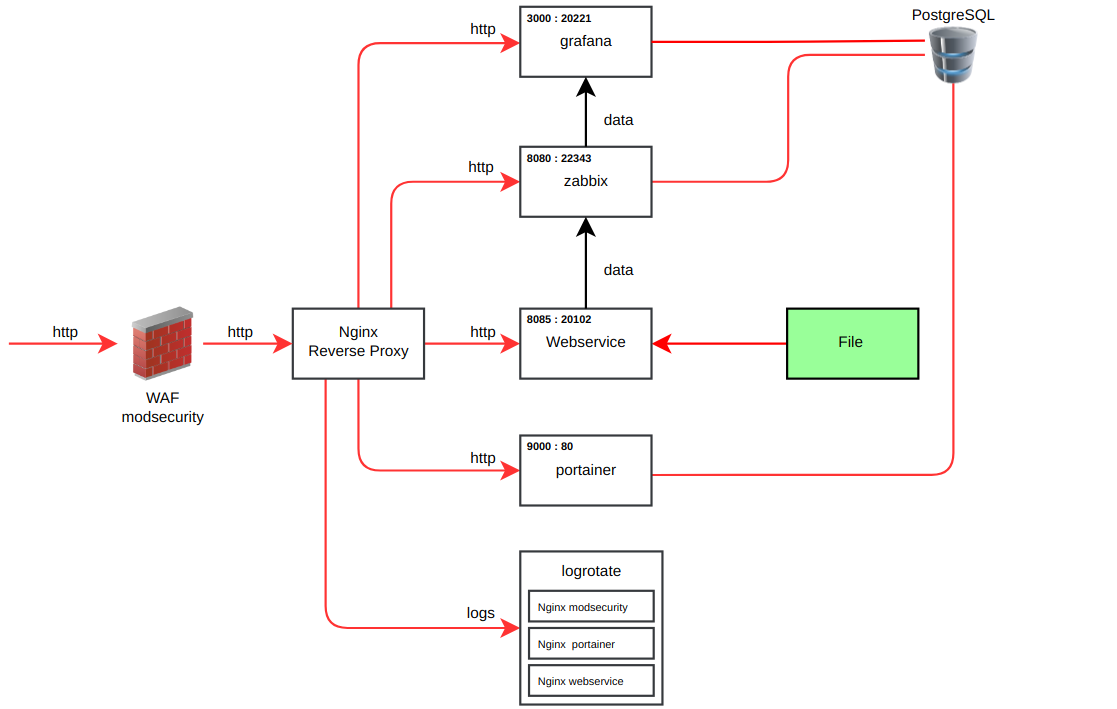
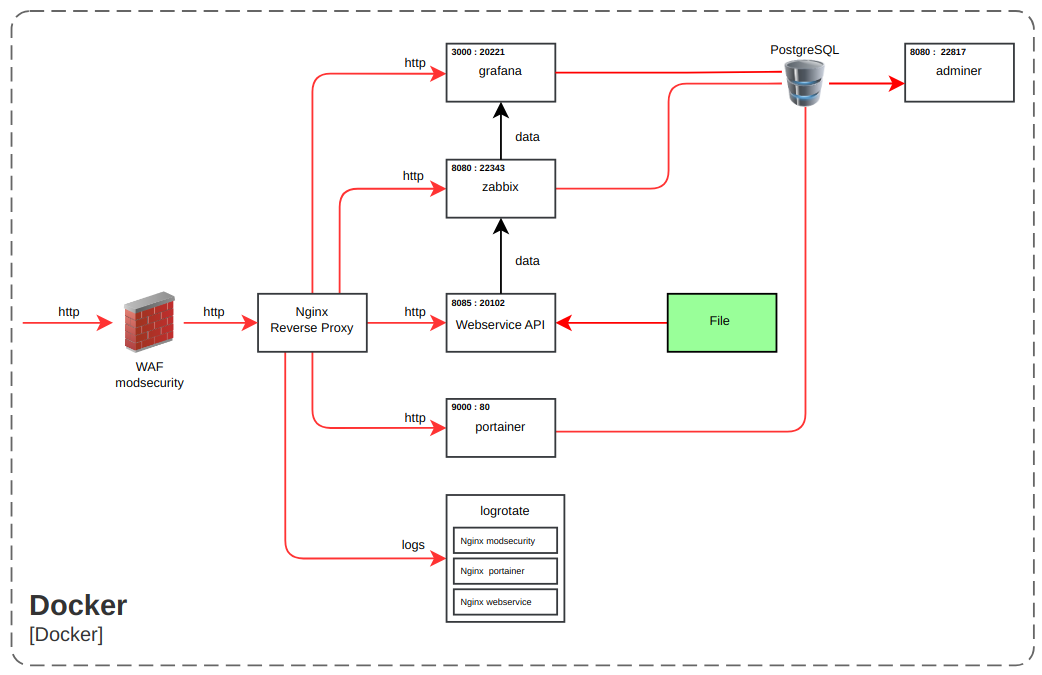
v1.0.0 edit flowchart

diff --git a/README.md b/README.md
@@ -20,7 +20,7 @@
     - nginx
     - logrotate
 - **Database**
-    - postgresql
+    - postgreSQL
 - **Database Management System**
     - adminer
 - **Web Application Firewall**
